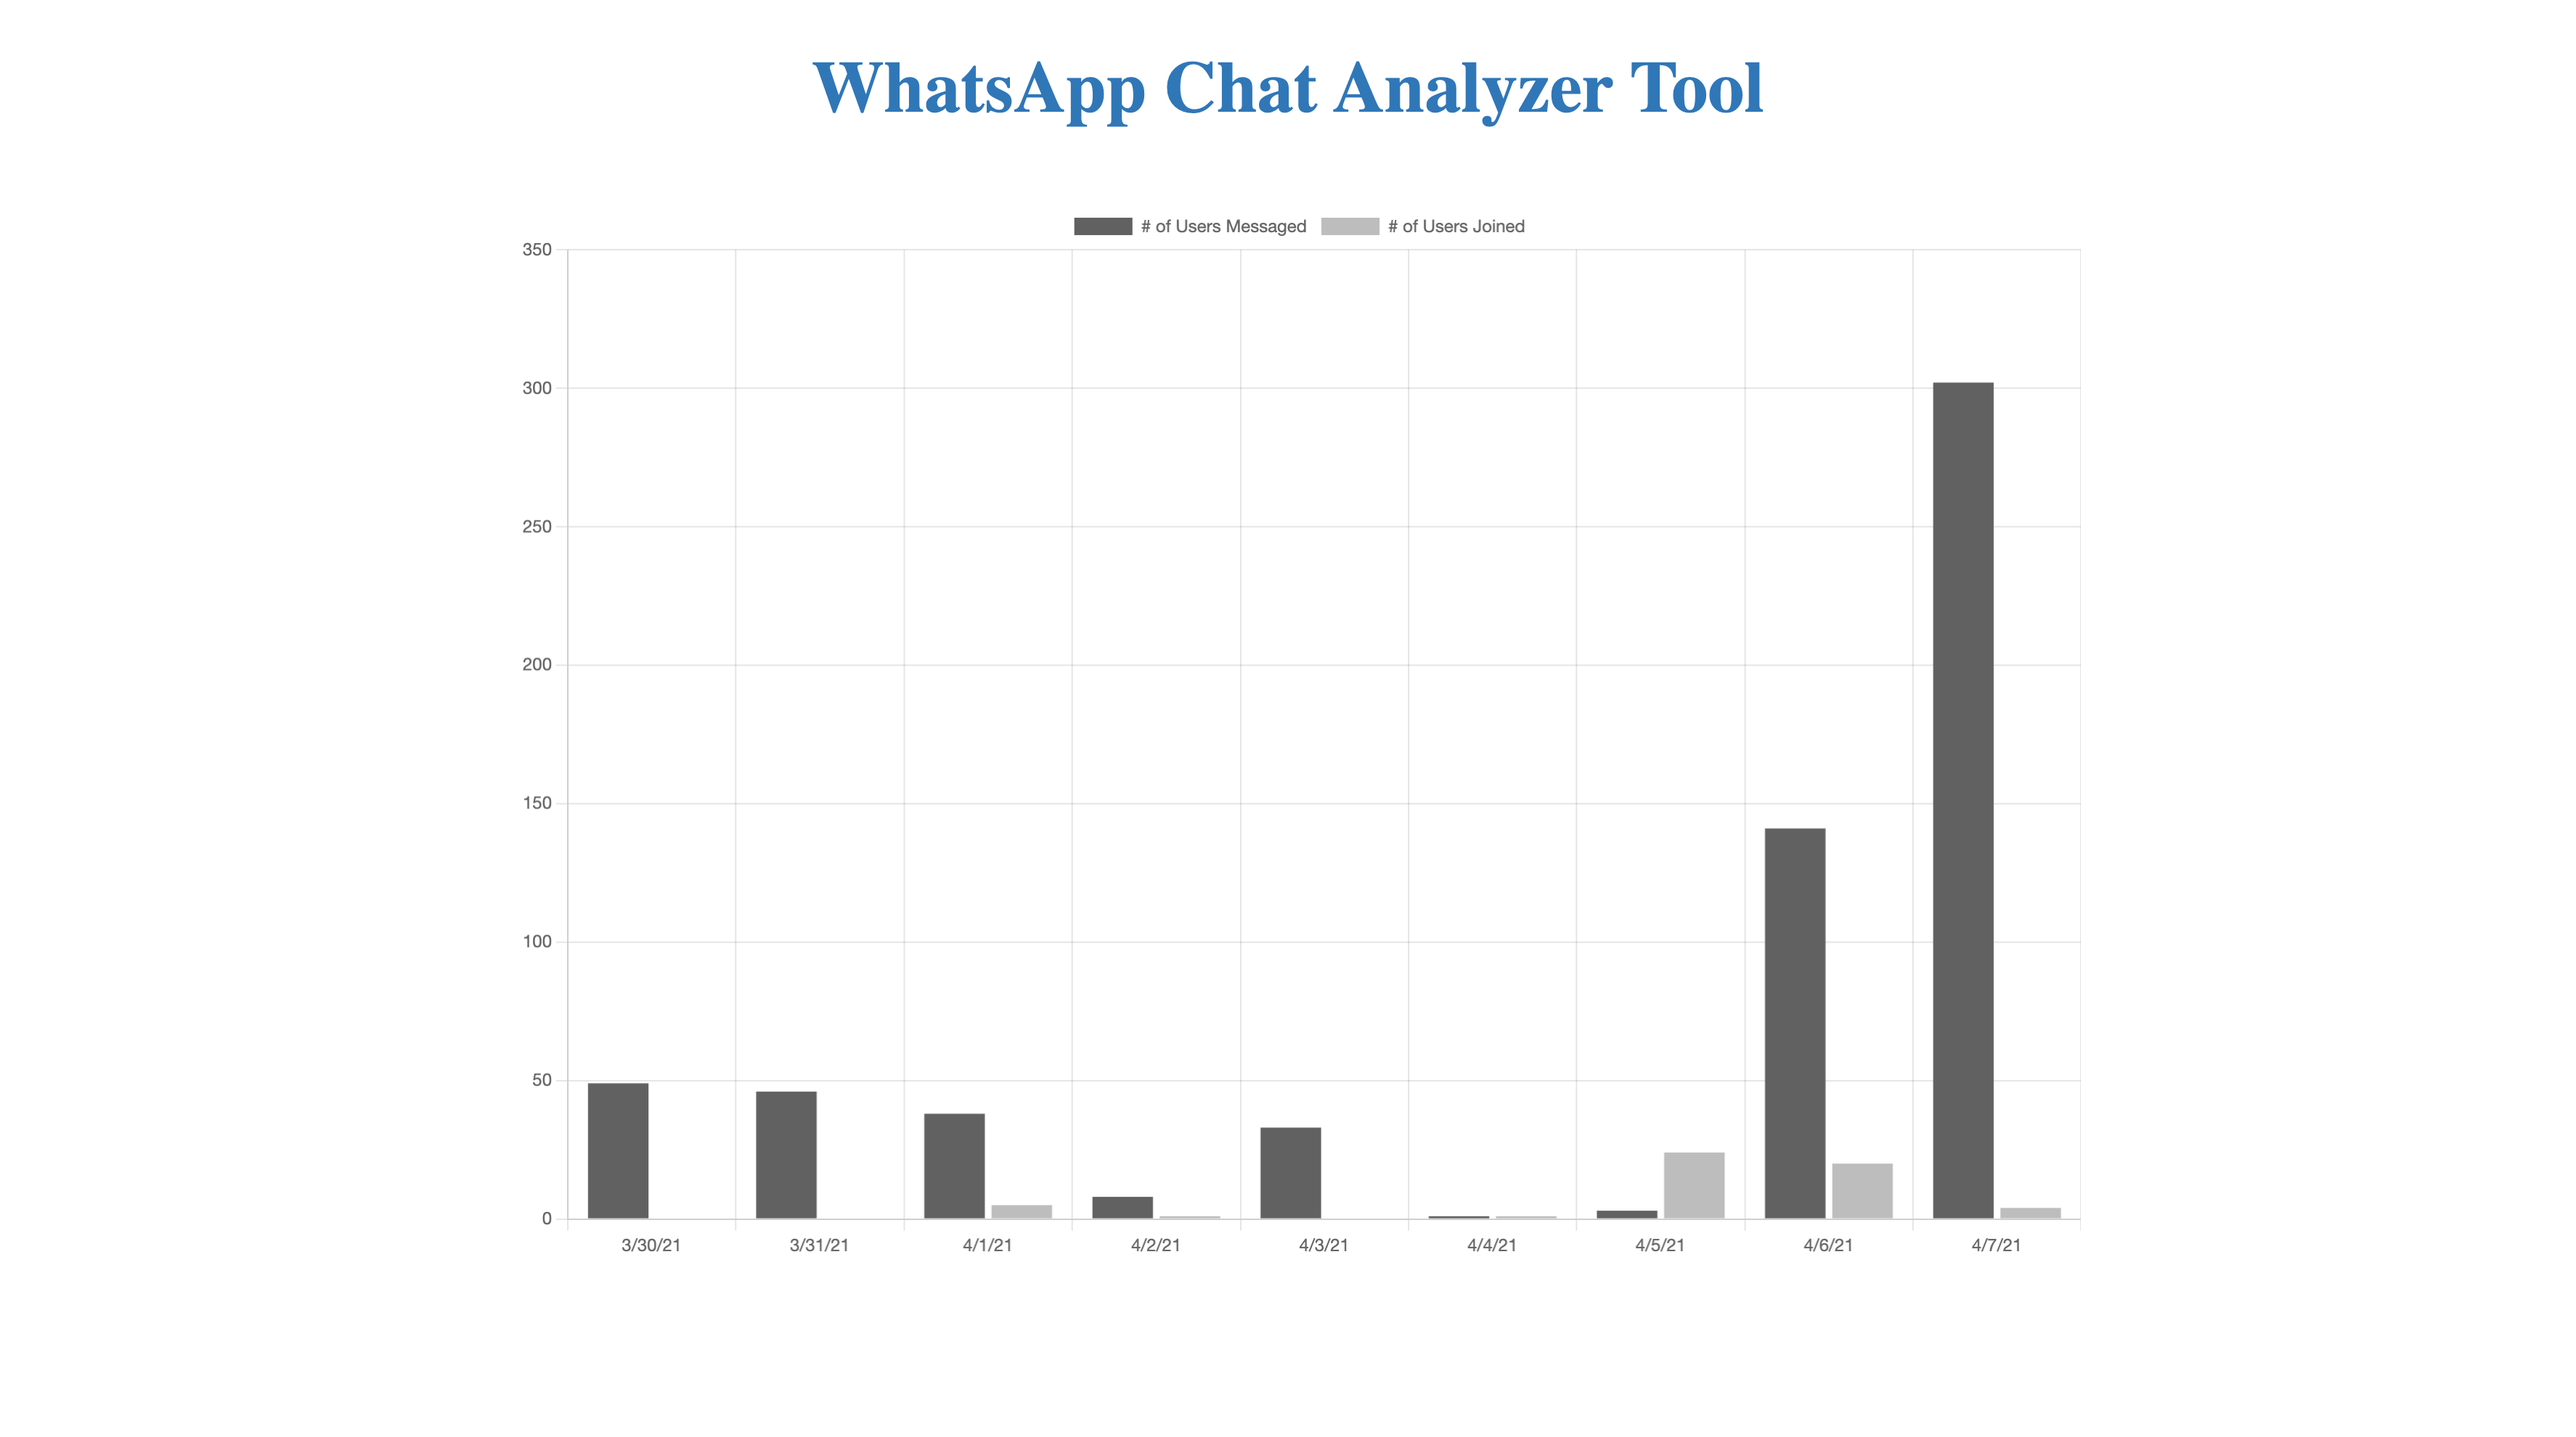
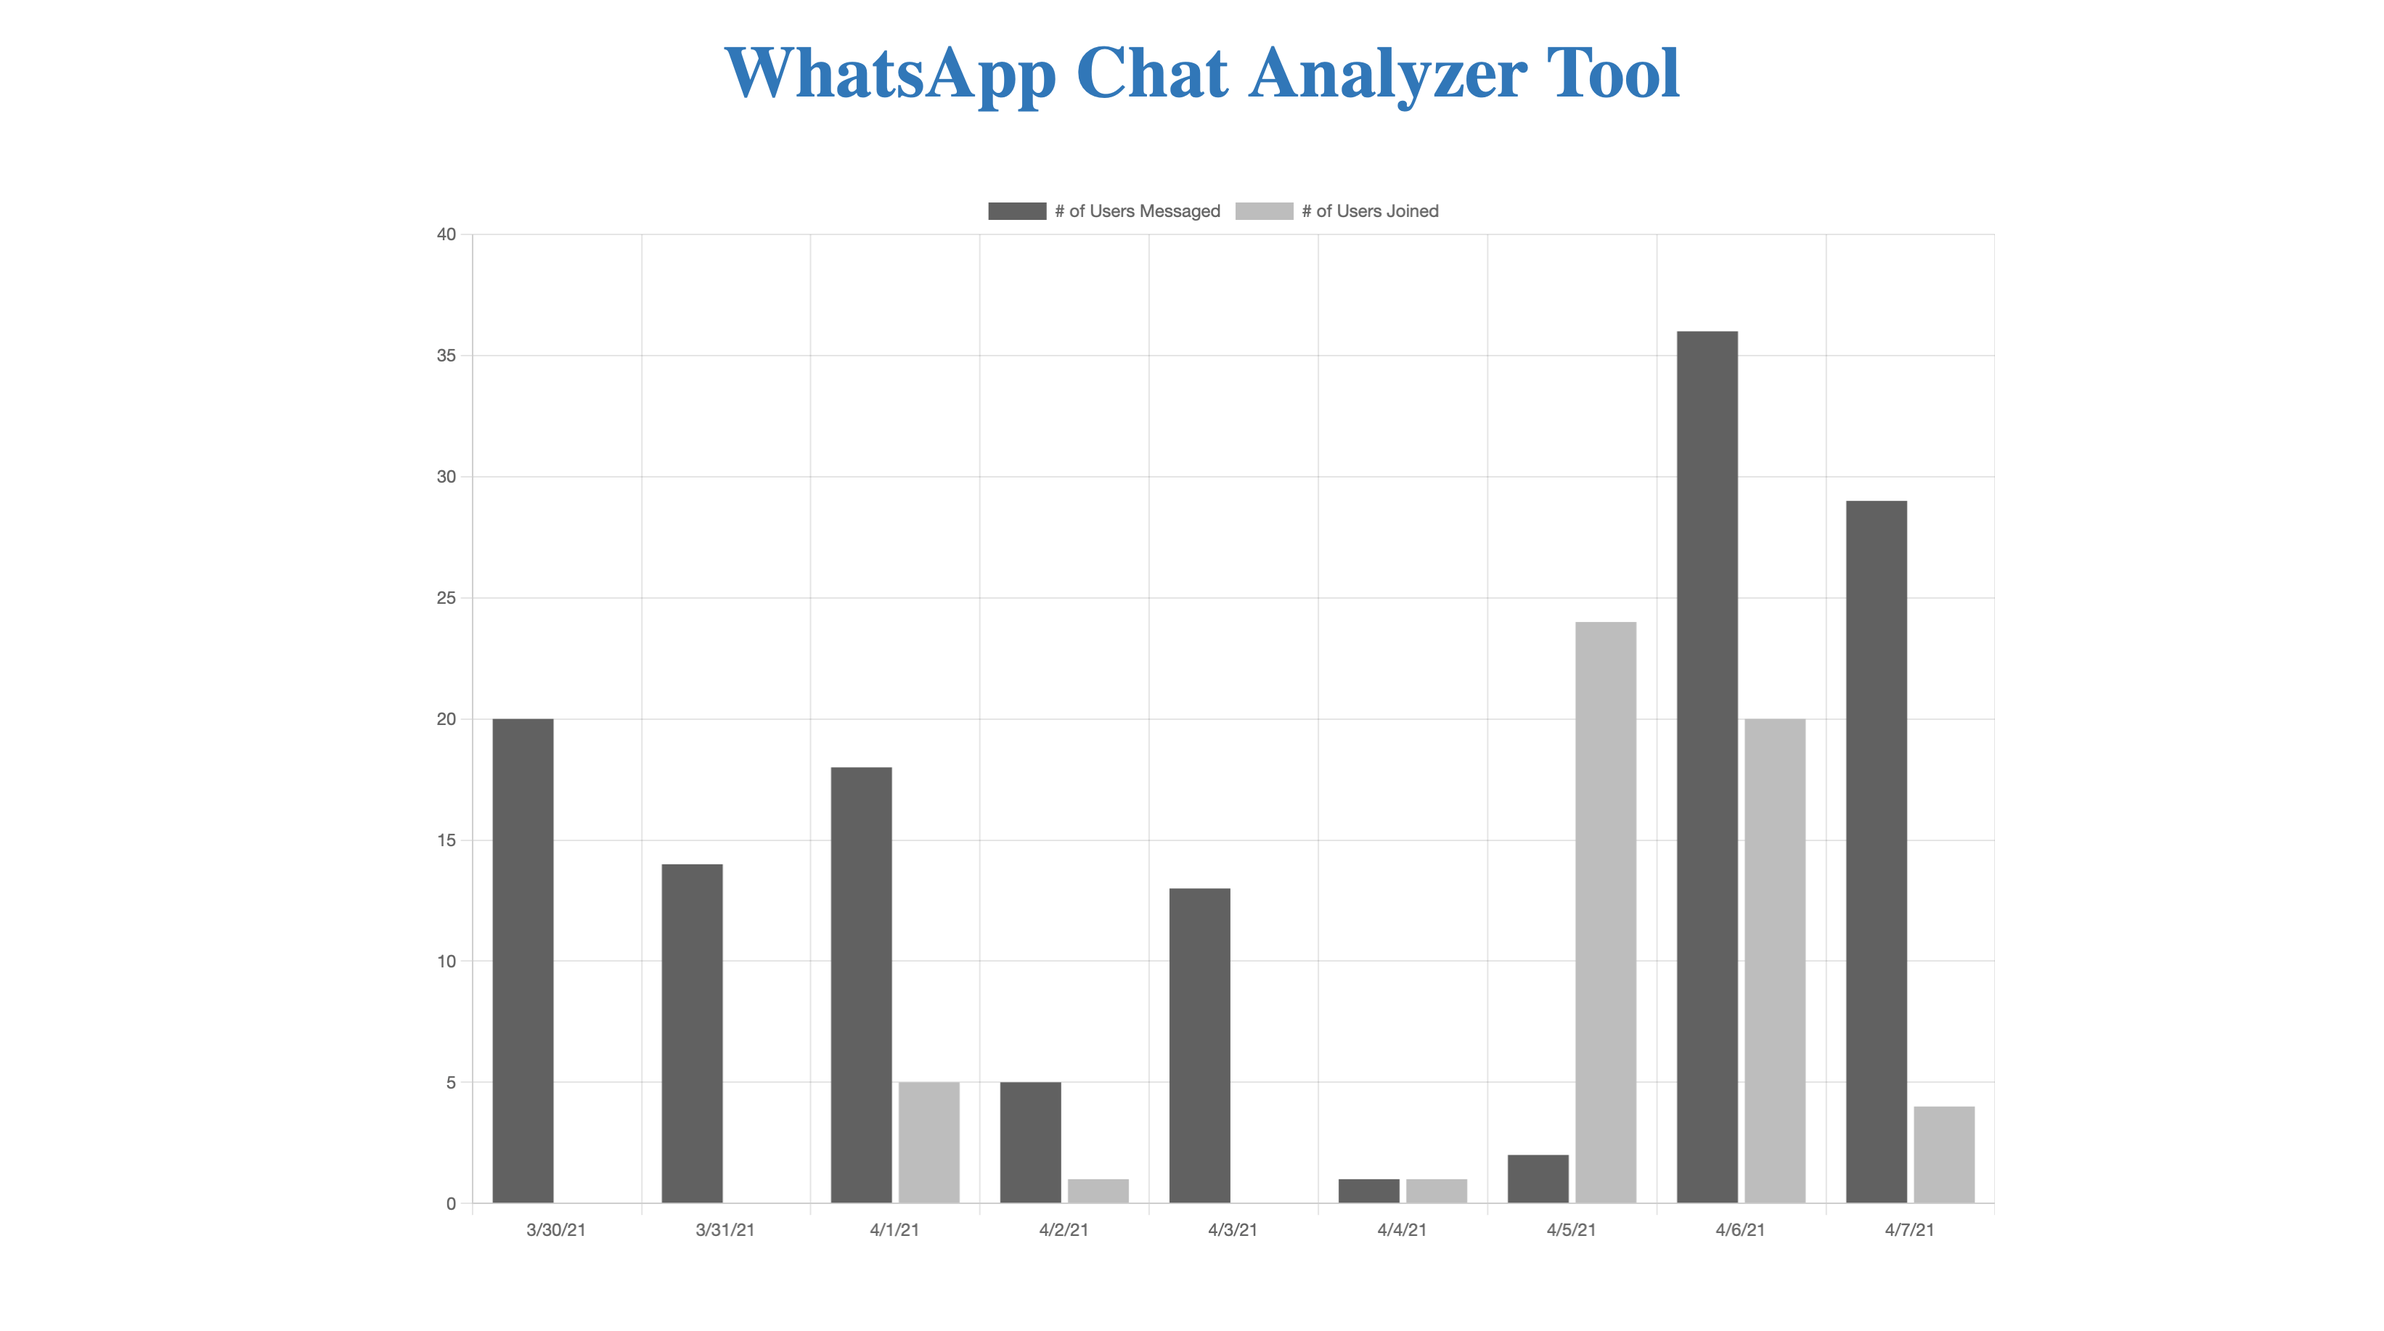
display corrected

diff --git a/api.js b/api.js
@@ -105,10 +105,11 @@ module.exports = {
     listOfDates.forEach((date) => {
       finalData[date] = {
         joined: groupByDateOnJoined[date]
-          ? groupByDateOnJoined[date].length
+          ? new Set(groupByDateOnJoined[date].map(({ number }) => number)).size
           : 0,
         messaged: groupByDateOnMessaged[date]
-          ? groupByDateOnMessaged[date].length
+          ? new Set(groupByDateOnMessaged[date].map(({ number }) => number))
+              .size
           : 0,
       };
     });
